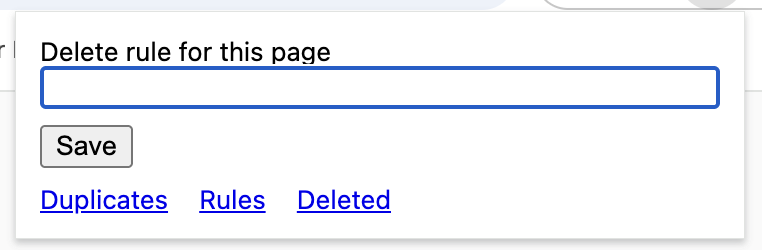
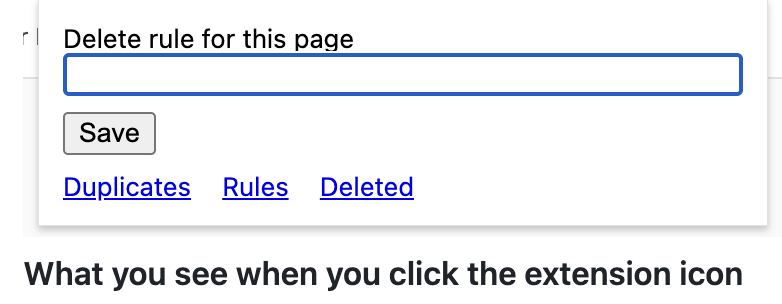
README: new screenshots with captions, drop Deleted screenshot

Changed region(s): [[0.0, 0.084, 1.0, 0.98], [0.0302, 0.0, 1.0, 0.056], [0.2717, 0.56, 0.5433, 0.672]]

diff --git a/README.md b/README.md
@@ -7,8 +7,8 @@
 Rotten is a Google Chrome extension that keeps your browsing history from becoming rotten.
 
 - **Duplicates:** 1-click deletion of repeat page visits in Chrome history. The earliest visit is kept.
-- **Noise:** Delete entries that match existing history by saved rule. Later visits are deleted from making new history entries.
-- **Bookmarks:** Bookmarking a page deletes its history. Later visits are deleted from making new history entries. (Uses exact URL match.)
+- **Noise:** Delete entries that match saved rules. Later visits will not make new history entries.
+- **Bookmarks:** Bookmark a page. Later visits will not make new history entries. (Uses exact URL match.)
 
 Rotten also includes `archive.chrome.history.sh`: a standalone script that backs up your Chrome history to a local SQLite database. Archived rows are never removed so your history survives past Chrome's 90-day retention window.
 
@@ -19,25 +19,11 @@ Rotten also includes `archive.chrome.history.sh`: a standalone script that backs
 
 ## Screenshots
 
-<img src="docs/popup.png" width="381" alt="Popup"><br>
-**What you see when you click the extension icon**
+<img src="docs/popup.png" width="391" alt="Popup"><br>
 
----
+<img src="docs/duplicates.png" width="484" alt="Duplicates page"><br>
 
-<img src="docs/duplicates.png" width="1021" alt="Duplicates page"><br>
-**1-click deletion of all repeated history entries**
-
----
-
-<img src="docs/rules.png" width="1416" alt="Rules page"><br>
-**Add a rule**
-
----
-
-<img src="docs/deleted.png" width="671" alt="Deleted page">
-**Logged deletions**
-
----
+<img src="docs/rules.png" width="570" alt="Rules page">
 
 ## Install
 
